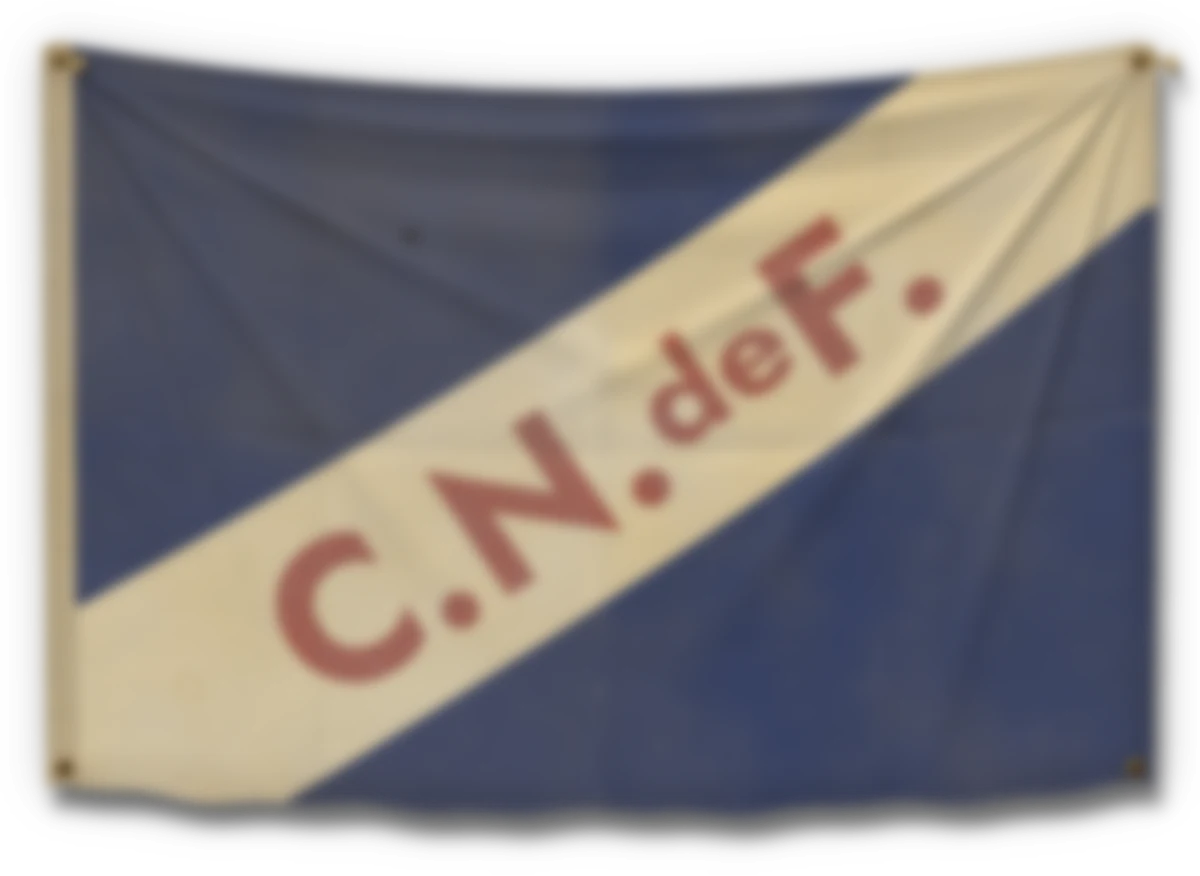
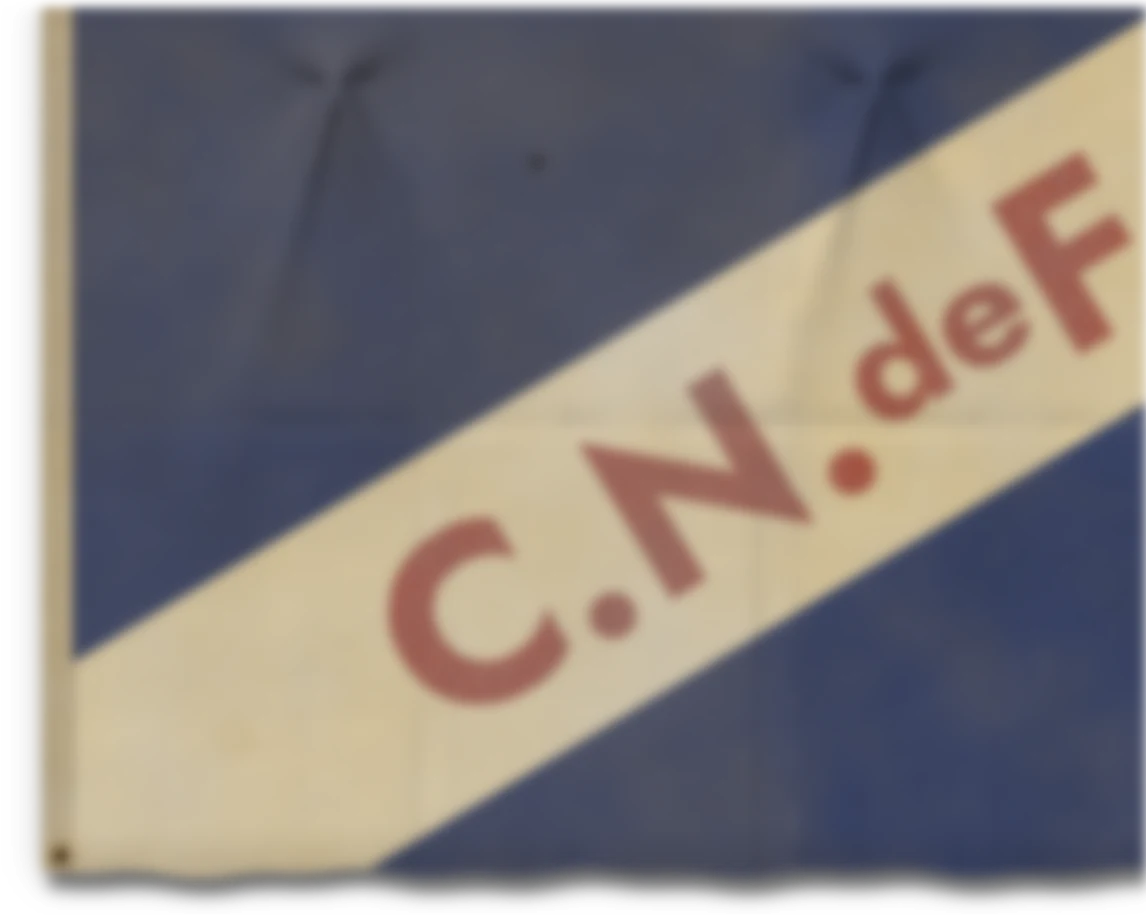
Hasse Backe: Nacionals flagga 150 × 90 cm, fäst under bardiskens skiva
"Hela flaggan behöver verkligen inte synas!": i krokarna kunde den inte bli
längre än 74 cm utan att nå golvet. Nu är den fäst med häftstift längs
överkanten under skivan, från stolpen till höger om löpsedeln, och hänger ut
över mässingskrokarna (ett tält runt varje knopp, med två veck snett nedåt)
till sex centimeter över golvet. Av den syns ungefär de vänstra tre
femtedelarna, med C.N.de på bandet.

Bilden täcker bara det som kan synas: ovanför y ≈ −756 skymmer skivan fronten
(genomskinligt, lika oskarpt som skivans kant), och till höger om x = 3900 är
väggens bild alltid slut; flagga.mjs stannar om rutan inte räcker förbi båda.
Gjord på Linux som förut (Chromium, cwebp, Jost som Futura).

Claude-Session: https://claude.ai/code/session_016CdqmBToLZUAEHFaYNsJbi

diff --git a/public/rum-hasse-scen.js b/public/rum-hasse-scen.js
@@ -58,23 +58,26 @@ export const SCEN = {
   // hur långt under kroken ramens överkant hänger (NED), och hur långt ut från fyllningen ramens framsida står
   // upptill och nedtill (UT): tråden drar ut överkanten mot kroken, och nederkanten vilar mot fyllningen.
   LOPSEDEL: { X: 1650, B: 600, NED: 92, UT: [50, 22] },
-  // Nacionals flagga (DL:s lag), gammal och blekt, 2026-11-16: den hänger i märlorna i de övre hörnen (IN in från
-  // kanterna) i mässingskrokarna i fältet till höger om löpsedelns och två fält längre bort (KROKAR, x), över två
-  // stolpar, och går ut ur bilden till höger. B × H: tyget, 112 × 74 cm, så stor som en flagga på en läktare och så
-  // lång att den räcker nästan ned till golvet (förut 58 × 38 cm i krokarna i två fält bredvid varandra, som såg ut
-  // som en vimpel: "otroligt liten", 2026-11-16). UT: hur långt ut från fyllningen den hänger, SAG: hur mycket
-  // överkanten sviktar mellan krokarna. Bilden (public/rum/hasse-flagga.webp, scripts/hasse/flagga.mjs) täcker
-  // flaggan, krokarna och skuggan, KANT runt om (flaggRuta); sidan lägger den på väggens duk (flagga i rum-hasse.js).
-  // (Den andra kroken, vid x = 4350, finns inte i bakningen; den hänger utanför bilden och ritas med flaggan.)
-  FLAGGA: { KROKAR: [2550, 4350], IN: 30, B: 1860, H: 1240, UT: 26, SAG: 80, KANT: 70 },
+  // Nacionals flagga (DL:s lag), gammal och blekt, 2026-11-16: 150 × 90 cm (B × H), fäst med häftstift längs
+  // överkanten i frontens övre list, under bardiskens skiva (TOPP: tygets överkant), från stolpen till höger om
+  // löpsedeln (X: tygets vänstra kant) och ut ur bilden till höger. Den hänger ut över mässingskrokarna som sitter
+  // under, och nederkanten slutar sex centimeter över golvet. Häftstiften och det översta av tyget skyms av skivan.
+  // UT: hur långt ut från fyllningen tyget hänger. Förut hängde den i märlorna i två krokar: först 58 × 38 cm, som
+  // en vimpel ("otroligt liten"), sedan 112 × 74 cm, men längre än så kunde den inte bli utan att nå golvet ("Hela
+  // flaggan behöver verkligen inte synas!", båda 2026-11-16). Märlorna (IN in från hörnen) sitter kvar i tyget.
+  // Bilden (public/rum/hasse-flagga.webp, scripts/hasse/flagga.mjs) täcker bara det som kan synas, med skuggan och
+  // KANT runt om (flaggRuta): RUTA.Y0 strax ovanför där skivan skymmer fronten (y ≈ −756), och RUTA.X1 förbi där den
+  // breda bilden slutar (x ≈ 3790 nedtill; flagga.mjs kontrollerar båda). Sidan lägger den på väggens duk (flagga
+  // i rum-hasse.js).
+  FLAGGA: { X: 2060, TOPP: -700, B: 2500, H: 1500, IN: 30, UT: 20, KANT: 70, RUTA: { Y0: -745, X1: 3900 } },
 };
 
-// Flaggans bild i barens mått: övre vänstra hörnet (x0, y0), bredden och höjden, och topp: tygets överkant vid
-// märlorna, som vilar på krokarnas skaft (skaftet 10 tjockt, hålet i märlan 17 vitt, som i bak.html).
+// Flaggans bild i barens mått: övre vänstra hörnet (x0, y0), bredden och höjden.
 export function flaggRuta(S = SCEN) {
   const G = S.FLAGGA;
-  const topp = S.FRONT.KROK + 5 - 8.5 + G.IN;
-  return { x0: G.KROKAR[0] - G.IN - G.KANT, y0: topp + G.KANT, w: G.B + 2 * G.KANT, h: G.H + G.SAG + 2 * G.KANT, topp };
+  const x0 = G.X - G.KANT;
+  const y0 = G.RUTA.Y0;
+  return { x0, y0, w: Math.min(G.X + G.B + G.KANT, G.RUTA.X1) - x0, h: y0 - (G.TOPP - G.H - G.KANT) };
 }
 
 // Kameran: läget, och axlarna i världen (höger, upp och bakåt; den tittar mot −bak). Rotationen är

diff --git a/public/rum-hasse.js b/public/rum-hasse.js
@@ -1176,10 +1176,10 @@ window.RumHasse = (() => {
   //
   // DL:s lag (2026-11-16: "lägg in en flagga som tillhör Nacional där nere på Hasse Backes vägg. Det får sannolikt
   // inte plats helt - men delvis", "På ett snyggt och patinasätt"): en gammal flagga, blekt och gulnad av röken, med
-  // veck där den har legat hopvikt, som hänger i märlorna i mässingskrokarna i fältet till höger om löpsedeln och två
-  // fält längre bort (SCEN.FLAGGA; "De brukar ju vara stora", 112 × 74 cm) och går ut ur bilden till höger. Bilden
-  // (scripts/hasse/flagga.mjs) är tyget i neutralt ljus, med vecken, krokarna och skuggan på fronten, och lika oskarp som väggen. Den läggs på väggens duk när den ritas
-  // (vagg), genom hans kamera (flaggan i rum-hasse-3d.js, exakt i perspektiv bildpunkt för bildpunkt), i det ljus
+  // veck där den har legat hopvikt, 150 × 90 cm ("De brukar ju vara stora"), fäst under bardiskens skiva till höger
+  // om löpsedeln och ut över krokarna (SCEN.FLAGGA), och ut ur bilden till höger. Bilden (scripts/hasse/flagga.mjs)
+  // är tyget i neutralt ljus, med vecken, krokarna under och skuggan på fronten, och lika oskarp som väggen; det som
+  // skivan skymmer är genomskinligt. Den läggs på väggens duk när den ritas (vagg), genom hans kamera (flaggan i rum-hasse-3d.js, exakt i perspektiv bildpunkt för bildpunkt), i det ljus
   // som faller på fronten där: läst ur väggen före flaggan och tonat som bakningen (aces efter 0,7 gånger ljuset),
   // som löpsedeln (lopLjus). Så hör den till väggen: inget eget lager, röken ligger över den och disken speglar den.
   // FLAGG_DAMPA: som löpsedeln ska den inte ta uppmärksamheten, och tyget är ljusare än mahognyn runt om.

diff --git a/scripts/hasse/README.md b/scripts/hasse/README.md
@@ -8,7 +8,7 @@ Tio filer i `public/rum/` byggs härifrån. De behöver bara göras om när utse
 
 Glaspartiet (`FONSTER` i `rum-hasse-scen.js`) är genomskinligt i bilderna där kameran ser rakt ut genom det, och genom en flaska bara så mycket som glaset släpper igenom; sidan lägger utsikten bakom (`public/rum-hasse-ute.js`, som läser samma mått). Bilderna har alltså alfa (cwebp behåller det). Ljuset utifrån (`HIMMEL`: himlen med `?dag=1`, annars stadens svaga, kalla sken) räknas som en lampa från en slumpad punkt i fönstren (`FON`), och i blanka ytor med sin andel (`glans`), så att det inte blir gnistor. Karmarna är matta som skyltfönstret i rummet (blanka gnistrade de), och varje stråle får bidra med högst 2. Efter bakningen jämnar ett kantbevarande filter ut det korn som är kvar i träet och karmarna, utan att kanterna mot glaset, flaskorna och disken blir suddiga (`mjuka` i `baka.mjs`; på en bild som redan är bakad: `node scripts/hasse/baka.mjs mjuka in.png ut.png`). Ändras `FONSTER` ska väggen bakas om. Alla sex bakades om 2026-11-10 när glaspartiet kom, med mjukvarugrafik (160 varv för de breda, 240 för telefonen på höjden), och gjordes till webp med Pillow (kvalitet 88, alfa 90) i stället för cwebp, som inte fanns.
 
-**Nacionals flagga** (DL:s lag, 2026-11-16) hänger i märlorna i två mässingskrokar på bardiskens front, i fältet till höger om löpsedeln och två fält längre bort (`SCEN.FLAGGA` och `flaggRuta` i `rum-hasse-scen.js`), och går ut ur bilden till höger: den syns i telefonen på bredden och i fönster nära kvadraten, inte i en vanlig datorskärm. Den är 112 × 74 cm och räcker nästan ned till golvet; först var den 58 × 38 cm i två fält bredvid varandra, men det såg ut som en vimpel ("otroligt liten"), så den gjordes dubbelt så stor samma kväll. Av den syns ungefär den vänstra halvan, med *C.N.* på bandet. `/opt/homebrew/bin/node scripts/hasse/flagga.mjs` (Node 22, Chrome med Futura, cwebp och dwebp) ritar tyget gammalt och blekt (gulnat av röken, veck där den har legat hopvikt, rost runt märlorna, en kaffering och ett cigarrhål) i neutralt ljus, med vecken, krokarna och skuggan på fronten, lika oskarpt som väggen, till `public/rum/hasse-flagga.webp`, och läser väggens sex bilder där den hänger i små prov till `public/rum/hasse-flagga.json`. Sidan lägger flaggan på väggens duk när den ritas (`flagga` i `public/rum-hasse.js`), genom kameran bildpunkt för bildpunkt, i ljuset ur proven. **Bakas väggen om ska `flagga.mjs` köras igen**; stämmer inte flaggans ruta med proven läser sidan bilderna själv, långsammare. Den andra kroken (x = 4350) finns inte i bakningen, eftersom den alltid hamnar utanför bilden; den ritas med flaggan. Utan Mac går det med Chromium (`CHROME=/opt/pw-browsers/chromium`), `apt-get install webp` och ett typsnitt som heter Futura: den stora flaggan gjordes så, med Jost Bold (fritt och ritat efter Futura) omdöpt till Futura i `~/.local/share/fonts`; bokstäverna blir nästan likadana som med Macens Futura.
+**Nacionals flagga** (DL:s lag, 2026-11-16) är 150 × 90 cm och fäst med häftstift längs överkanten i bardiskens front, under skivan, från stolpen till höger om löpsedeln (`SCEN.FLAGGA` och `flaggRuta` i `rum-hasse-scen.js`). Den hänger ut över mässingskrokarna (tältet runt varje knopp i `hojd`), slutar sex centimeter över golvet och går ut ur bilden till höger: den syns i telefonen på bredden och i fönster nära kvadraten, inte i en vanlig datorskärm. Av den syns ungefär de vänstra tre femtedelarna, med *C.N.de* på bandet. Samma kväll var den först 58 × 38 cm och sedan 112 × 74 cm, hängd i märlorna i två krokar; det såg ut som en vimpel ("otroligt liten"), och i krokarna kunde den inte bli längre utan att nå golvet ("Hela flaggan behöver verkligen inte synas!"). Bilden täcker bara det som kan synas: skivan skymmer fronten ovanför y ≈ −756 (`DOLD` i `flagga.mjs`, genomskinligt där, lika oskarpt som skivans kant), och den breda bilden slutar vid x ≈ 3790; skriptet stannar om `FLAGGA.RUTA` inte räcker förbi båda. `/opt/homebrew/bin/node scripts/hasse/flagga.mjs` (Node 22, Chrome med Futura, cwebp och dwebp) ritar tyget gammalt och blekt (gulnat av röken, veck där den har legat hopvikt, rost runt märlorna, en kaffering och ett cigarrhål) i neutralt ljus, med vecken, krokarna och skuggan på fronten, lika oskarpt som väggen, till `public/rum/hasse-flagga.webp`, och läser väggens sex bilder där den hänger i små prov till `public/rum/hasse-flagga.json`. Sidan lägger flaggan på väggens duk när den ritas (`flagga` i `public/rum-hasse.js`), genom kameran bildpunkt för bildpunkt, i ljuset ur proven. **Bakas väggen om ska `flagga.mjs` köras igen**; stämmer inte flaggans ruta med proven läser sidan bilderna själv, långsammare. Utan Mac går det med Chromium (`CHROME=/opt/pw-browsers/chromium`), `apt-get install webp` och ett typsnitt som heter Futura: de stora flaggorna gjordes så, med Jost Bold (fritt och ritat efter Futura) omdöpt till Futura i `~/.local/share/fonts`; bokstäverna blir nästan likadana som med Macens Futura.
 
 Ändras kameran, baren, pulten eller var han sitter vid den (`DISK`, `HORN`, `PLATS`) i `rum-hasse-scen.js` ska väggen bakas om. Kamerans lins (`LINS`) läser bakningen därifrån, och sidan räknar löpsedelns oskärpa med samma lins. Bardiskens front och mässingskrokarna står också i `FRONT` där: veckans löpsedel hänger i kroken vid x = 1650 (`LOPSEDEL`), så flyttas fronten eller krokarna ska `FRONT` följa med. Det gäller också väggen (`VAGG`): den flyttades 2026-11-11 från −1100 till −1900, så att det blev en gång bakom honom, och alla sex bilderna bakades om med grafikkort på Macen, 400 varv (ungefär tre minuter per bild). Lamporna i `LJ` står lika långt från väggen som förut (`DZ`), så att furun och bardisken får samma ljus, och bardiskens skiva följer fönstren (`T` = `FONSTER.Y0` − 22). Golvet syns nu till höger om pulten (`golv` i bak.html). Pulten framför honom bakas inte: sidan ritar den en gång i hans värld (`diskBild` i `public/rum-hasse-3d.js`), med väggens bild svagt speglad i träet. I bakningen finns den och han själv bara som något som skuggar och kastar ljus.
 
